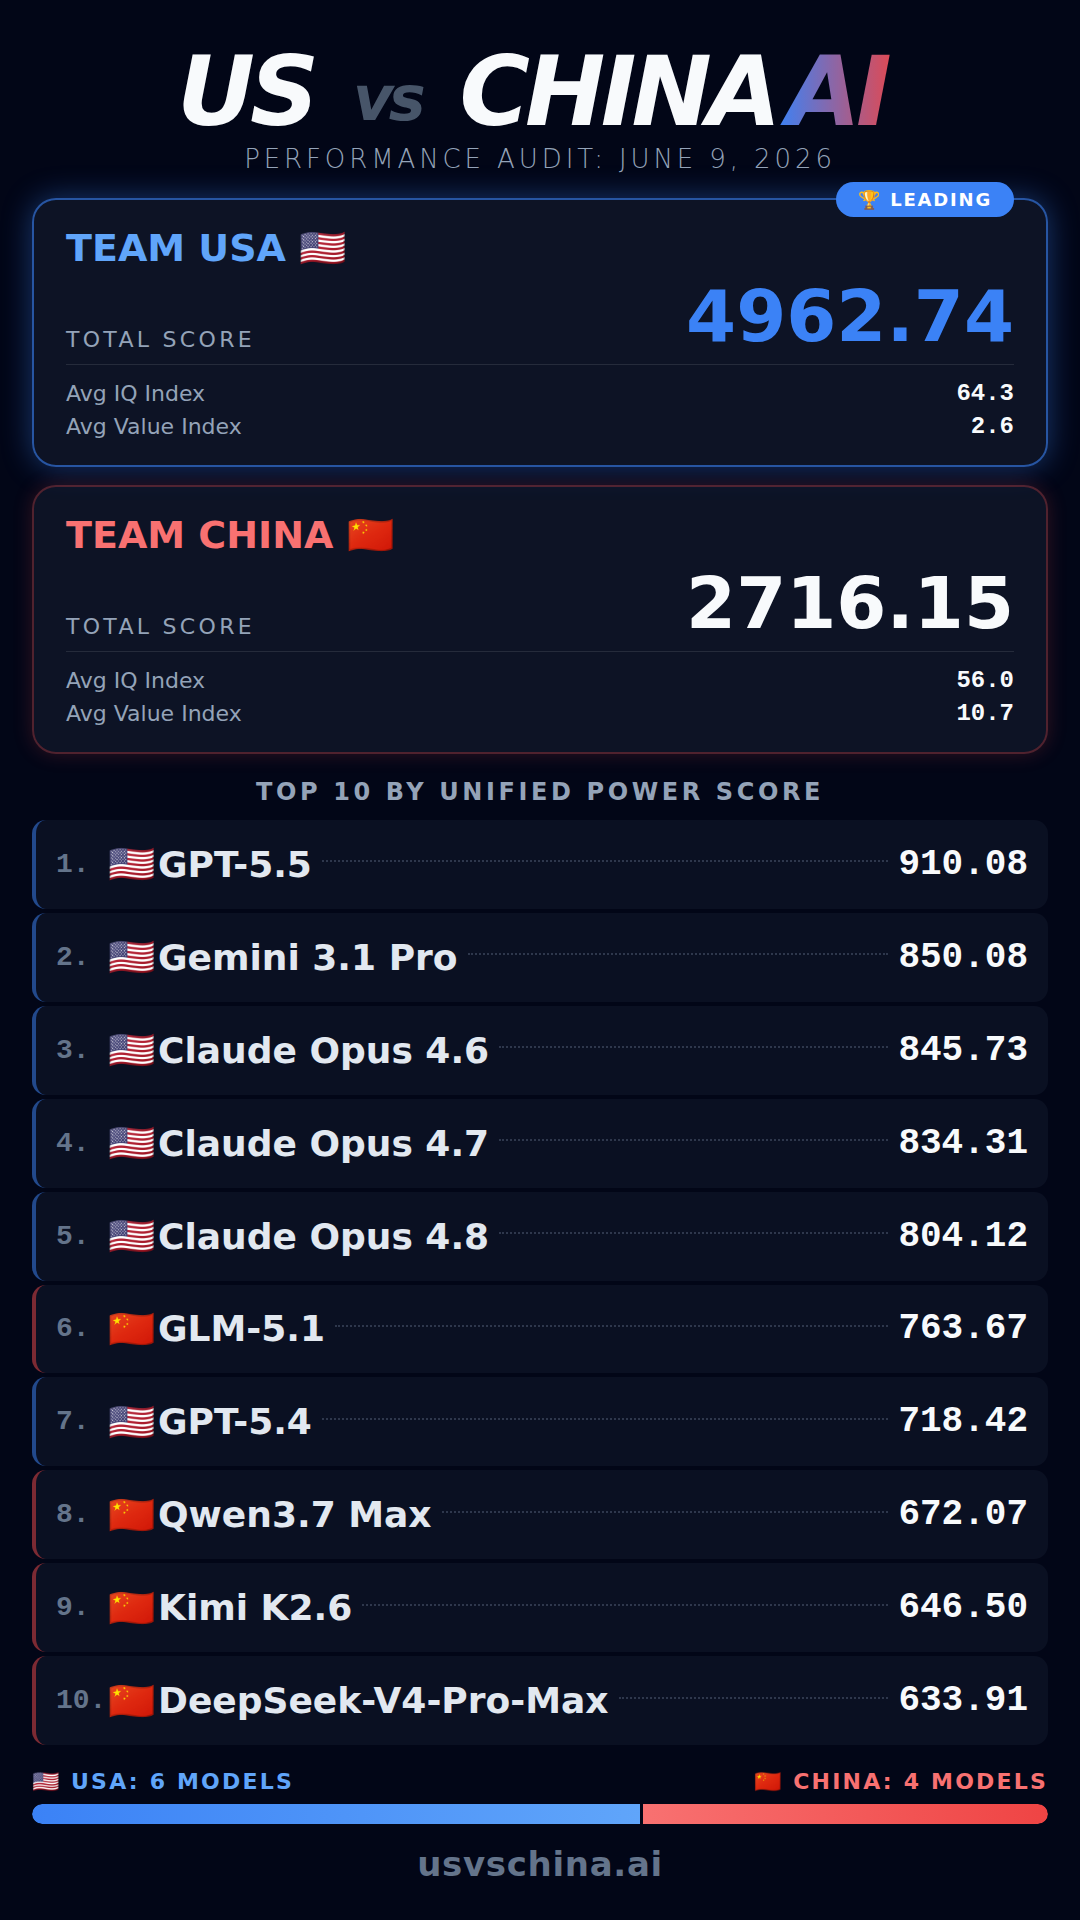
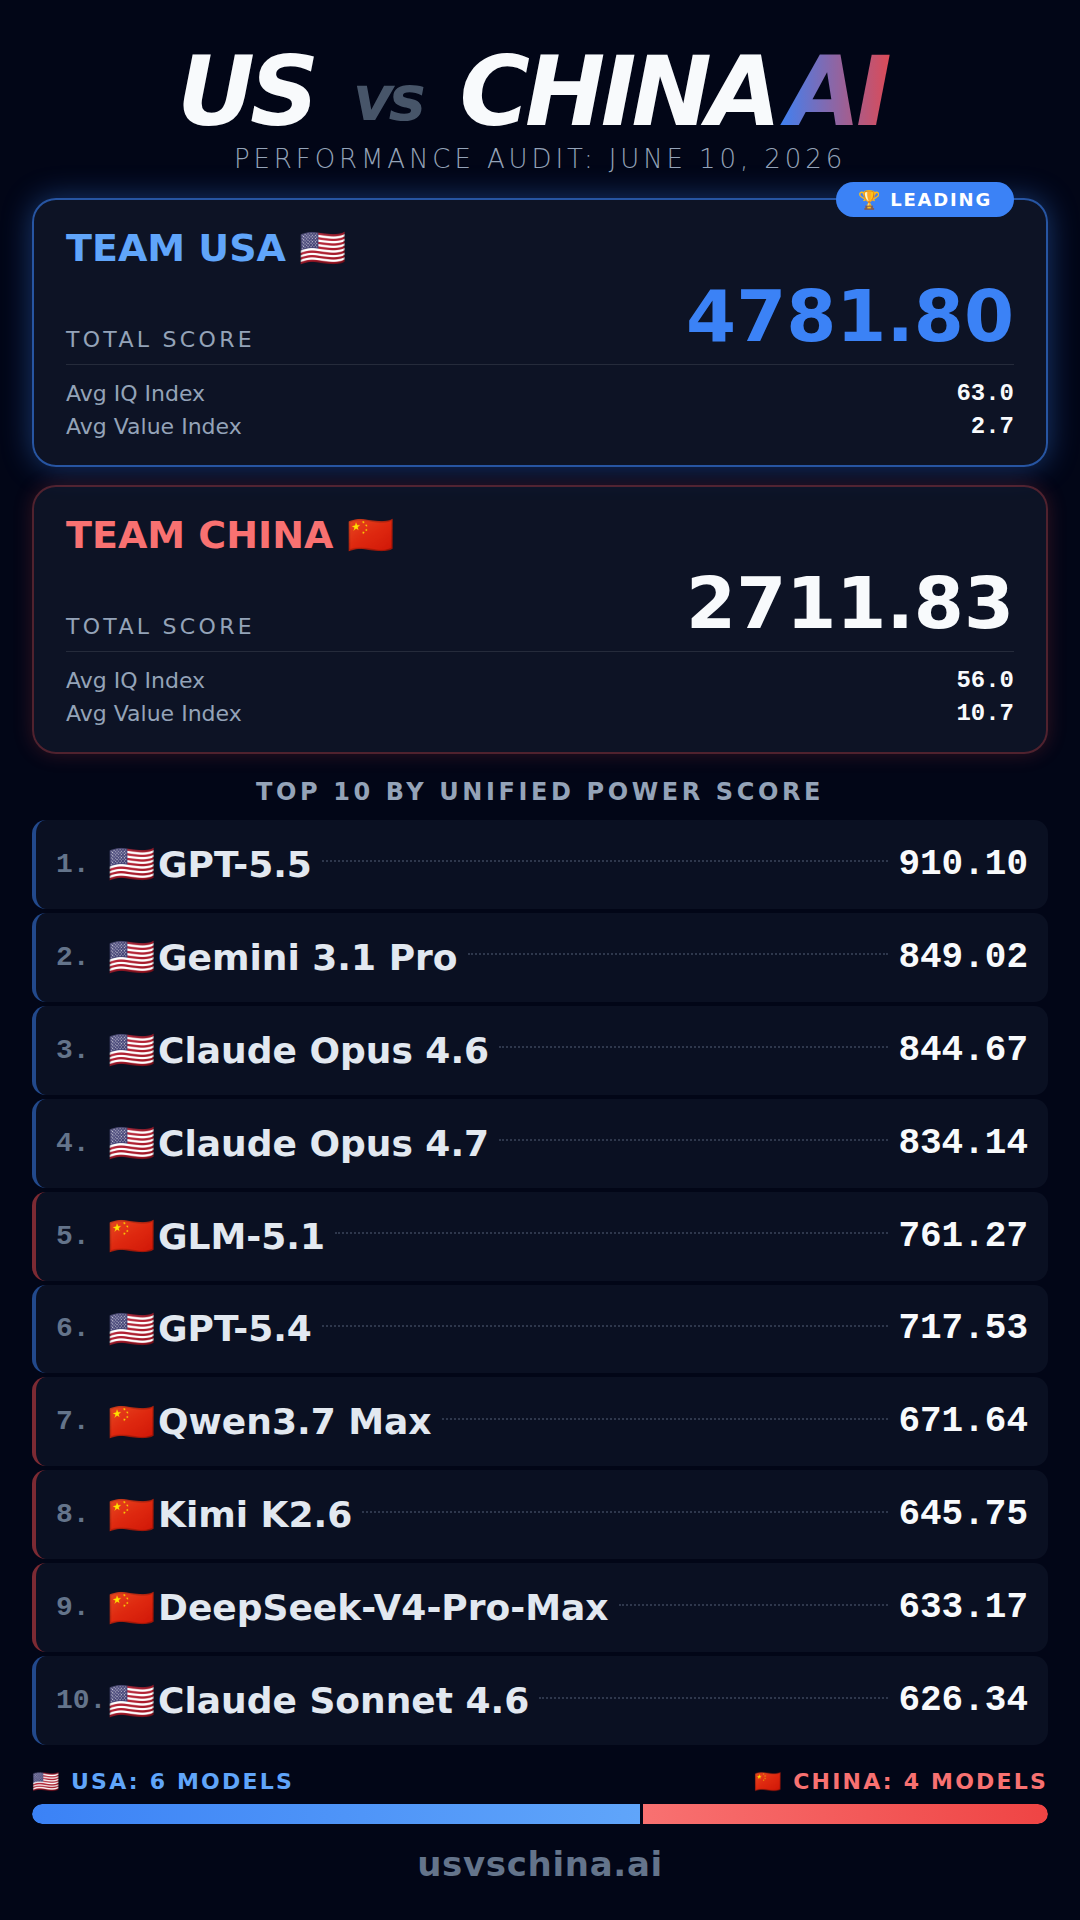
Daily scrape run - 2026-06-10T05:33:43 UTC

diff --git a/about.html b/about.html
@@ -27,7 +27,7 @@
     <meta property="og:url" content="https://usvschina.ai/about.html">
     <meta property="og:title" content="US vs CHINA AI | About - Methodology & Scoring Explained">
     <meta property="og:description" content="Learn how US vs CHINA AI ranks AI models. Understand the scoring methodology and benchmarks.">
-    <meta property="og:image" content="https://usvschina.ai/og-image.png?v=1780982859">
+    <meta property="og:image" content="https://usvschina.ai/og-image.png?v=1781069623">
     <meta property="og:image:width" content="1200">
     <meta property="og:image:height" content="630">
     <meta property="og:image:type" content="image/png">
@@ -39,7 +39,7 @@
     <meta name="twitter:url" content="https://usvschina.ai/about.html">
     <meta name="twitter:title" content="US vs CHINA AI | About - Methodology & Scoring Explained">
     <meta name="twitter:description" content="Learn how US vs CHINA AI ranks AI models. Understand the scoring methodology and benchmarks.">
-    <meta name="twitter:image" content="https://usvschina.ai/og-image.png?v=1780982859">
+    <meta name="twitter:image" content="https://usvschina.ai/og-image.png?v=1781069623">
     
     <!-- Additional SEO/AEO Meta -->
     <!-- theme-color is injected at runtime below to keep the HTML lint-clean

diff --git a/history.html b/history.html
@@ -27,7 +27,7 @@
     <meta property="og:url" content="https://usvschina.ai/history.html">
     <meta property="og:title" content="US vs CHINA AI | Historical Archives - AI Race Timeline">
     <meta property="og:description" content="Track the history of the US vs China AI race. See how AI model rankings have changed over time.">
-    <meta property="og:image" content="https://usvschina.ai/og-image.png?v=1780982859">
+    <meta property="og:image" content="https://usvschina.ai/og-image.png?v=1781069623">
     <meta property="og:image:width" content="1200">
     <meta property="og:image:height" content="630">
     <meta property="og:image:type" content="image/png">
@@ -39,7 +39,7 @@
     <meta name="twitter:url" content="https://usvschina.ai/history.html">
     <meta name="twitter:title" content="US vs CHINA AI | Historical Archives - AI Race Timeline">
     <meta name="twitter:description" content="Track the history of the US vs China AI race. See how AI model rankings have changed over time.">
-    <meta name="twitter:image" content="https://usvschina.ai/og-image.png?v=1780982859">
+    <meta name="twitter:image" content="https://usvschina.ai/og-image.png?v=1781069623">
     
     <!-- Additional SEO/AEO Meta -->
     <!-- theme-color is injected at runtime below to keep the HTML lint-clean

diff --git a/index.html b/index.html
@@ -27,7 +27,7 @@
     <meta property="og:url" content="https://usvschina.ai/">
     <meta property="og:title" content="US vs CHINA AI | Global Leaderboard - Compare Top AI Models 2025">
     <meta property="og:description" content="Compare the world's best AI models ranked by intelligence and cost efficiency. Track which country is winning the AI race.">
-    <meta property="og:image" content="https://usvschina.ai/og-image.png?v=1780982859">
+    <meta property="og:image" content="https://usvschina.ai/og-image.png?v=1781069623">
     <meta property="og:image:width" content="1200">
     <meta property="og:image:height" content="630">
     <meta property="og:image:type" content="image/png">
@@ -39,7 +39,7 @@
     <meta name="twitter:url" content="https://usvschina.ai/">
     <meta name="twitter:title" content="US vs CHINA AI | Global Leaderboard - Compare Top AI Models 2025">
     <meta name="twitter:description" content="Compare the world's best AI models ranked by intelligence and cost efficiency. Track which country is winning the AI race.">
-    <meta name="twitter:image" content="https://usvschina.ai/og-image.png?v=1780982859">
+    <meta name="twitter:image" content="https://usvschina.ai/og-image.png?v=1781069623">
     
     <!-- Additional SEO/AEO Meta -->
     <!-- theme-color is injected at runtime below to keep the HTML lint-clean

diff --git a/privacy.html b/privacy.html
@@ -27,7 +27,7 @@
     <meta property="og:url" content="https://usvschina.ai/privacy.html">
     <meta property="og:title" content="US vs CHINA AI | Privacy Policy">
     <meta property="og:description" content="Privacy policy for US vs CHINA AI. We do not collect personal data.">
-    <meta property="og:image" content="https://usvschina.ai/og-image.png?v=1780982859">
+    <meta property="og:image" content="https://usvschina.ai/og-image.png?v=1781069623">
     <meta property="og:image:width" content="1200">
     <meta property="og:image:height" content="630">
     <meta property="og:image:type" content="image/png">
@@ -39,7 +39,7 @@
     <meta name="twitter:url" content="https://usvschina.ai/privacy.html">
     <meta name="twitter:title" content="US vs CHINA AI | Privacy Policy">
     <meta name="twitter:description" content="Privacy policy for US vs CHINA AI. We do not collect personal data.">
-    <meta name="twitter:image" content="https://usvschina.ai/og-image.png?v=1780982859">
+    <meta name="twitter:image" content="https://usvschina.ai/og-image.png?v=1781069623">
 
     <!-- Additional SEO/AEO Meta -->
     <!-- theme-color is injected at runtime below to keep the HTML lint-clean

diff --git a/terms.html b/terms.html
@@ -27,7 +27,7 @@
     <meta property="og:url" content="https://usvschina.ai/terms.html">
     <meta property="og:title" content="US vs CHINA AI | Terms of Service">
     <meta property="og:description" content="Terms of Service for US vs CHINA AI. Derived data disclaimers and limitations.">
-    <meta property="og:image" content="https://usvschina.ai/og-image.png?v=1780982859">
+    <meta property="og:image" content="https://usvschina.ai/og-image.png?v=1781069623">
     <meta property="og:image:width" content="1200">
     <meta property="og:image:height" content="630">
     <meta property="og:image:type" content="image/png">
@@ -39,7 +39,7 @@
     <meta name="twitter:url" content="https://usvschina.ai/terms.html">
     <meta name="twitter:title" content="US vs CHINA AI | Terms of Service">
     <meta name="twitter:description" content="Terms of Service for US vs CHINA AI. Derived data disclaimers and limitations.">
-    <meta name="twitter:image" content="https://usvschina.ai/og-image.png?v=1780982859">
+    <meta name="twitter:image" content="https://usvschina.ai/og-image.png?v=1781069623">
 
     <!-- Additional SEO/AEO Meta -->
     <!-- theme-color is injected at runtime below to keep the HTML lint-clean